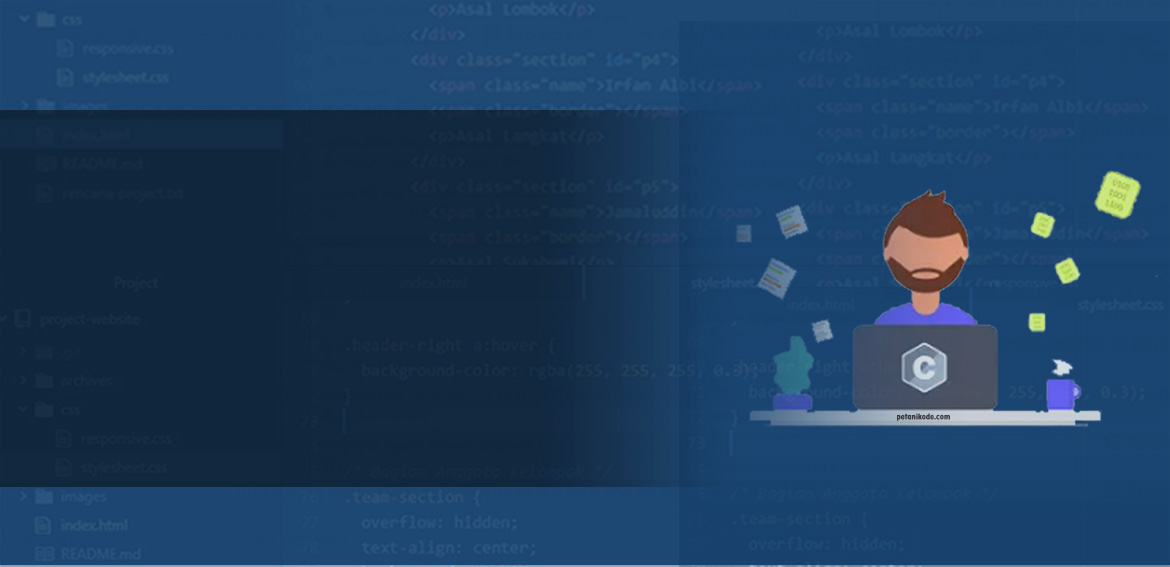
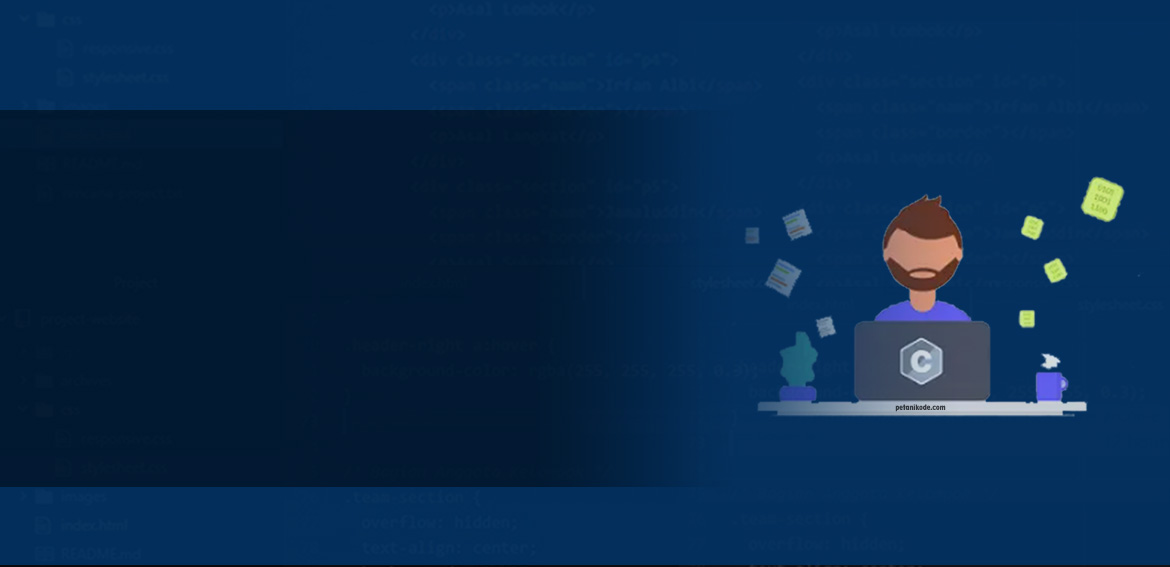
ganti background

diff --git a/css/responsive.css b/css/responsive.css
@@ -1,14 +1,9 @@
 /* Kode Responsive untuk Tablet ukuran maksimal 1000px */
 @media all and (max-width: 1000px) {
-    .team .card{
-		width:50%;
-		margin-bottom:30px;
-	}
+
 }
 
 /* Kode Responsive untuk Smartphone ukuran maksimal 670px */
 @media all and (max-width: 670px) {
-    .team .card{
-		width:100%;
-	}
+
 }
